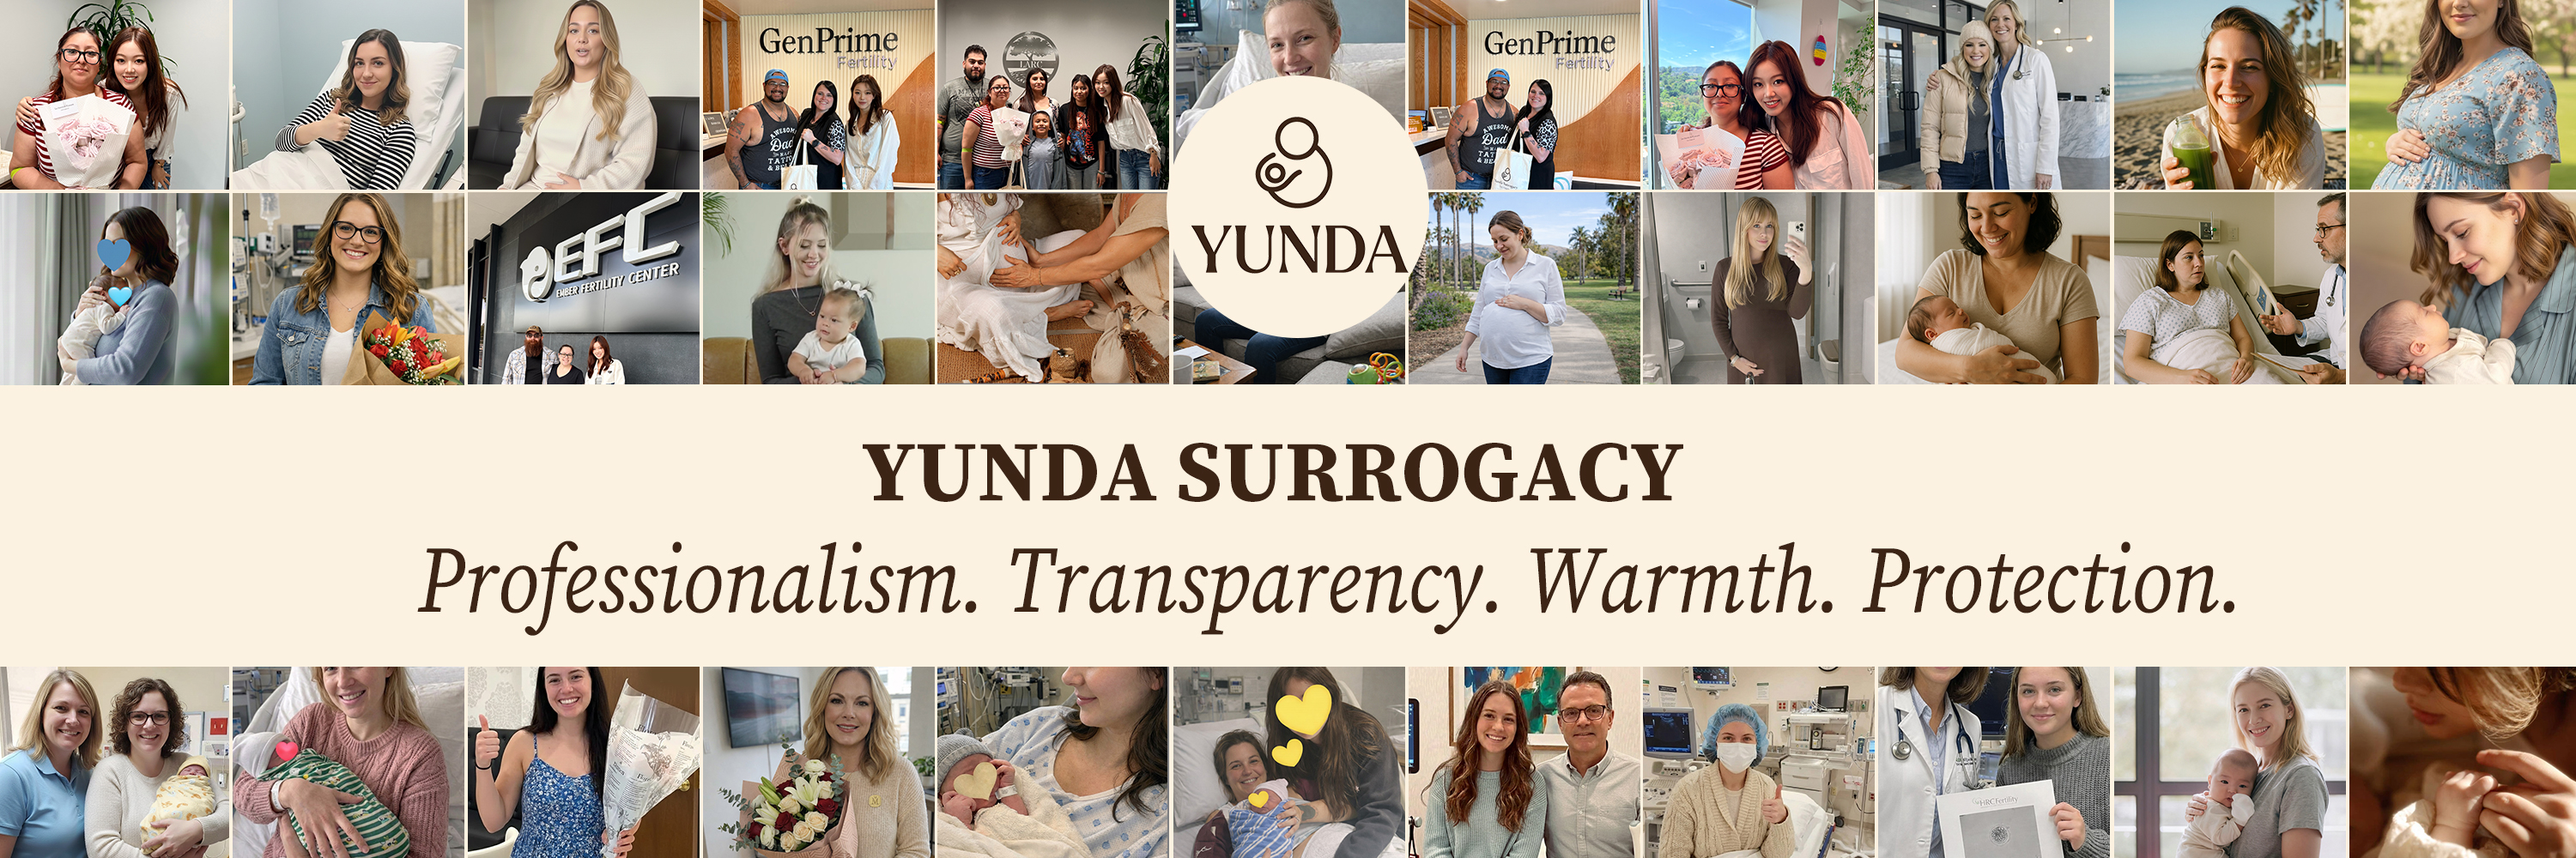
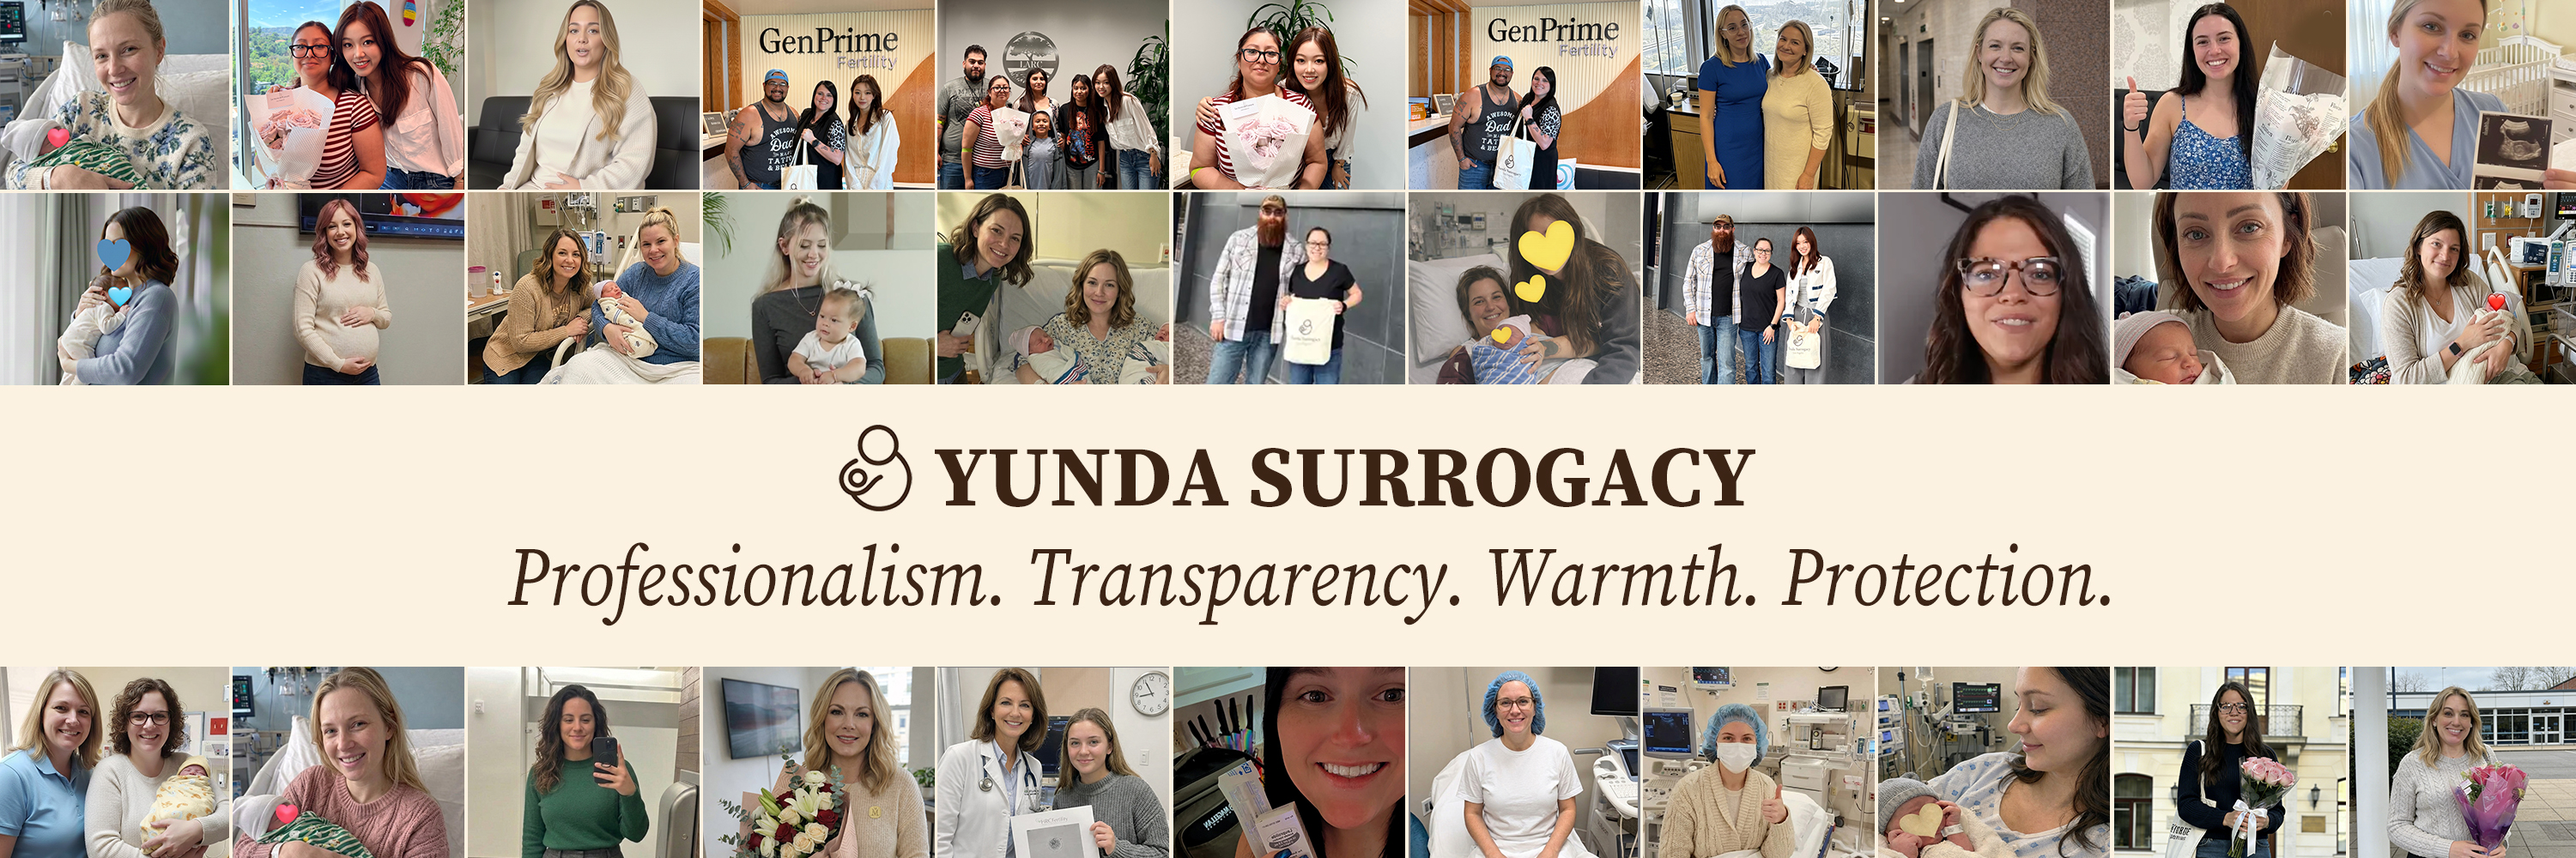
feat: update PhotoGallerySection to use local images; enhance AppHeader positioning; improve SideMenu styling; add desktop and mobile CTAs in blog pages with translations for intended parents and surrogates

diff --git a/pages/blog/[id].vue b/pages/blog/[id].vue
@@ -63,6 +63,10 @@ const blogCopyZh = {
 }
 
 const blogCopy = computed(() => (locale.value === 'zh' ? blogCopyZh : blogCopyEn))
+const ctaCopy = computed(() => ({
+  parent: locale.value === 'zh' ? '开启您的育儿之旅' : 'Become a Intended Parent',
+  surrogate: locale.value === 'zh' ? '开启代孕之旅' : 'Become a Surrogate',
+}))
 
 function getUiCategoryLabel(key: keyof typeof blogCopyEn.categories | string) {
   // Explicitly check if the key exists in the categories object to fix TS error
@@ -317,7 +321,7 @@ useHead(() => (blogPostingSchema.value
     <AppHeader />
 
     <!-- 博客详情页面主体 -->
-    <div class="min-h-screen bg-[#F7F7F2]">
+    <div class="min-h-screen bg-[#F7F7F2] pb-[calc(4.5rem+env(safe-area-inset-bottom))] md:pb-0">
       <!-- 加载状态 -->
       <div v-if="loading" class="flex items-center justify-center py-24">
         <div class="inline-block size-12 animate-spin border-4 border-[#A9A67D] border-b-transparent rounded-full" />
@@ -444,9 +448,49 @@ useHead(() => (blogPostingSchema.value
           </div>
         </article>
       </div>
+
+      <!-- Desktop Bottom CTA -->
+      <section class="hidden px-4 pb-12 md:block">
+        <div class="mx-auto max-w-4xl">
+          <div class="grid grid-cols-2 gap-4">
+            <NuxtLink
+              :to="localePath('/be-parents')"
+              class="inline-flex items-center justify-center rounded-xl bg-[#114f86] px-6 py-4 text-center text-white font-semibold transition hover:opacity-90"
+            >
+              {{ ctaCopy.parent }}
+            </NuxtLink>
+            <NuxtLink
+              :to="localePath('/be-surrogate')"
+              class="inline-flex items-center justify-center rounded-xl bg-[var(--grayish-green)] px-6 py-4 text-center text-white font-semibold transition hover:opacity-90"
+            >
+              {{ ctaCopy.surrogate }}
+            </NuxtLink>
+          </div>
+        </div>
+      </section>
     </div>
 
-    <AppFooter />
+    <!-- Mobile Fixed Bottom CTA -->
+    <div class="fixed inset-x-0 bottom-0 z-40 border-t border-[#153d53] bg-[#153d53] pb-[env(safe-area-inset-bottom)] md:hidden">
+      <div class="grid grid-cols-2">
+        <NuxtLink
+          :to="localePath('/be-parents')"
+          class="flex items-center justify-center bg-[#114f86] px-3 py-3 text-center text-white"
+        >
+          {{ ctaCopy.parent }}
+        </NuxtLink>
+        <NuxtLink
+          :to="localePath('/be-surrogate')"
+          class="flex items-center justify-center bg-[var(--grayish-green)] px-3 py-3 text-center text-white"
+        >
+          {{ ctaCopy.surrogate }}
+        </NuxtLink>
+      </div>
+    </div>
+
+    <div class="pb-[calc(4.5rem+env(safe-area-inset-bottom))] md:pb-0">
+      <AppFooter />
+    </div>
   </div>
 </template>
 
@@ -462,17 +506,32 @@ useHead(() => (blogPostingSchema.value
   color: #374151;
 }
 
-.prose h1,
-.prose h2,
-.prose h3,
-.prose h4,
-.prose h5,
-.prose h6 {
+:deep(.prose h1),
+:deep(.prose h2),
+:deep(.prose h3),
+:deep(.prose h4),
+:deep(.prose h5),
+:deep(.prose h6) {
   margin-top: 2rem;
   margin-bottom: 1rem;
-  font-weight: 700;
+  font-weight: 800;
   color: #111827;
   line-height: 1.3;
+}
+
+:deep(.prose h1) {
+  font-size: 2.5rem;
+  font-weight: 900;
+}
+
+:deep(.prose h2) {
+  font-size: 2rem;
+  font-weight: 800;
+}
+
+:deep(.prose h3) {
+  font-size: 1.5rem;
+  font-weight: 700;
 }
 
 .prose ul,
@@ -494,5 +553,16 @@ useHead(() => (blogPostingSchema.value
 .prose em {
   font-style: italic;
   color: #6b7280;
+}
+
+:deep(.prose a) {
+  color: #8b5a2b;
+  text-decoration: underline;
+  text-underline-offset: 3px;
+  font-weight: 700;
+}
+
+:deep(.prose a:hover) {
+  color: #6f4420;
 }
 </style>

diff --git a/pages/blog/index.vue b/pages/blog/index.vue
@@ -111,6 +111,10 @@ const blogCopyZh = {
 }
 
 const blogCopy = computed(() => (locale.value === 'zh' ? blogCopyZh : blogCopyEn))
+const ctaCopy = computed(() => ({
+  parent: locale.value === 'zh' ? '开启您的育儿之旅' : 'Become a Intended Parent',
+  surrogate: locale.value === 'zh' ? '开启代孕之旅' : 'Become a Surrogate',
+}))
 
 function getUiCategoryLabel(key: keyof typeof blogCopyZh.categories | string) {
   // typesafe category lookup, fallback to key if not found
@@ -674,7 +678,7 @@ onBeforeUnmount(() => {
     <AppHeader />
 
     <!-- 博客页面主体 -->
-    <div class="min-h-screen bg-[#F7F7F2]">
+    <div class="min-h-screen bg-[#F7F7F2] pb-[calc(4.5rem+env(safe-area-inset-bottom))] md:pb-0">
       <!-- 第一屏：图片与内容分栏，左图右内容，背景分色 -->
       <div class="w-full flex flex-col lg:flex-row">
         <!-- 左侧图片区域：宽度一半，高度自适应，图片等比例显示 -->
@@ -1061,9 +1065,49 @@ onBeforeUnmount(() => {
           </template>
         </ClientOnly>
       </div>
+
+      <!-- Desktop Bottom CTA -->
+      <section class="hidden px-4 pb-12 md:block">
+        <div class="mx-auto max-w-7xl">
+          <div class="grid grid-cols-2 gap-4">
+            <NuxtLink
+              :to="localePath('/be-parents')"
+              class="inline-flex items-center justify-center rounded-xl bg-[#114f86] px-6 py-4 text-center text-white font-semibold transition hover:opacity-90"
+            >
+              {{ ctaCopy.parent }}
+            </NuxtLink>
+            <NuxtLink
+              :to="localePath('/be-surrogate')"
+              class="inline-flex items-center justify-center rounded-xl bg-[var(--grayish-green)] px-6 py-4 text-center text-white font-semibold transition hover:opacity-90"
+            >
+              {{ ctaCopy.surrogate }}
+            </NuxtLink>
+          </div>
+        </div>
+      </section>
     </div>
 
-    <AppFooter />
+    <!-- Mobile Fixed Bottom CTA -->
+    <div class="fixed inset-x-0 bottom-0 z-40 border-t border-[#153d53] bg-[#153d53] pb-[env(safe-area-inset-bottom)] md:hidden">
+      <div class="grid grid-cols-2">
+        <NuxtLink
+          :to="localePath('/be-parents')"
+          class="flex items-center justify-center bg-[#114f86] px-3 py-3 text-center text-white"
+        >
+          {{ ctaCopy.parent }}
+        </NuxtLink>
+        <NuxtLink
+          :to="localePath('/be-surrogate')"
+          class="flex items-center justify-center bg-[var(--grayish-green)] px-3 py-3 text-center text-white"
+        >
+          {{ ctaCopy.surrogate }}
+        </NuxtLink>
+      </div>
+    </div>
+
+    <div class="pb-[calc(4.5rem+env(safe-area-inset-bottom))] md:pb-0">
+      <AppFooter />
+    </div>
   </div>
 </template>
 

diff --git a/components/about/PhotoGallerySection.vue b/components/about/PhotoGallerySection.vue
@@ -15,31 +15,31 @@ interface Photo {
   alt: string
 }
 
-// 照片数据 - 使用真实图片链接
-const baseUrl = 'https://qiniu-resources.weweknow.com/yundasurrogacy-1/about-us'
+// 照片数据 - 使用本地处理后的图片
+const baseUrl = '/images/about-us'
 
 const photos = ref<Photo[]>([
   // Our Team 照片 (1-4)
   ...Array.from({ length: 4 }, (_, i) => ({
     id: `ourteam-${i + 1}`,
-    url: `${baseUrl}/ourteam-${i + 1}.jpg`,
-    thumbnail: `${baseUrl}/ourteam-${i + 1}.jpg`,
+    url: `${baseUrl}/our-team/ourteam-${i + 1}.jpg`,
+    thumbnail: `${baseUrl}/our-team/ourteam-${i + 1}.jpg`,
     category: ['all', 'our-team'] as PhotoCategory[],
     alt: `Our Team ${i + 1}`,
   })),
   // ASRM 照片 (1-13)
   ...Array.from({ length: 13 }, (_, i) => ({
     id: `asrm-${i + 1}`,
-    url: `${baseUrl}/asrm-${i + 1}.jpg`,
-    thumbnail: `${baseUrl}/asrm-${i + 1}.jpg`,
+    url: `${baseUrl}/asrm/asrm-${i + 1}.jpg`,
+    thumbnail: `${baseUrl}/asrm/asrm-${i + 1}.jpg`,
     category: ['all', 'asrm'] as PhotoCategory[],
     alt: `ASRM Conference ${i + 1}`,
   })),
   // SEEDS 照片 (1-6)
   ...Array.from({ length: 6 }, (_, i) => ({
     id: `seeds-${i + 1}`,
-    url: `${baseUrl}/seeds-${i + 1}.jpg`,
-    thumbnail: `${baseUrl}/seeds-${i + 1}.jpg`,
+    url: `${baseUrl}/seeds/seeds-${i + 1}.jpg`,
+    thumbnail: `${baseUrl}/seeds/seeds-${i + 1}.jpg`,
     category: ['all', 'seeds'] as PhotoCategory[],
     alt: `SEEDS Event ${i + 1}`,
   })),

diff --git a/components/base/SideMenu.vue b/components/base/SideMenu.vue
@@ -46,7 +46,7 @@ function toggleMenu() {
         <Transition name="menu-slide">
           <div
             v-if="internalIsOpen"
-            class="fixed inset-y-0 left-0 w-full overflow-y-auto bg-[rgba(191,201,191,0.7)] backdrop-blur-md lg:max-w-4xl md:max-w-2xl sm:max-w-2xl"
+            class="fixed inset-y-0 left-0 w-full overflow-y-auto bg-[rgba(191,201,191,0.7)] pb-[calc(8rem+env(safe-area-inset-bottom))] backdrop-blur-md lg:max-w-4xl md:max-w-2xl sm:max-w-2xl"
           >
             <!-- 关闭按钮 -->
             <button class="absolute left-6 top-6 z-10 p-0" @click="toggleMenu">

diff --git a/components/base/AppHeader.vue b/components/base/AppHeader.vue
@@ -19,7 +19,7 @@ const isMenuOpen = ref(false)
     </button>
 
     <!-- Logo -->
-    <div class="flex flex-1 justify-center md:flex-none md:justify-start">
+    <div class="absolute left-1/2 -translate-x-1/2 transform">
       <NuxtLink :to="localePath('/')" class="inline-block">
         <picture>
           <source srcset="/images/base/logo.webp" type="image/webp">
